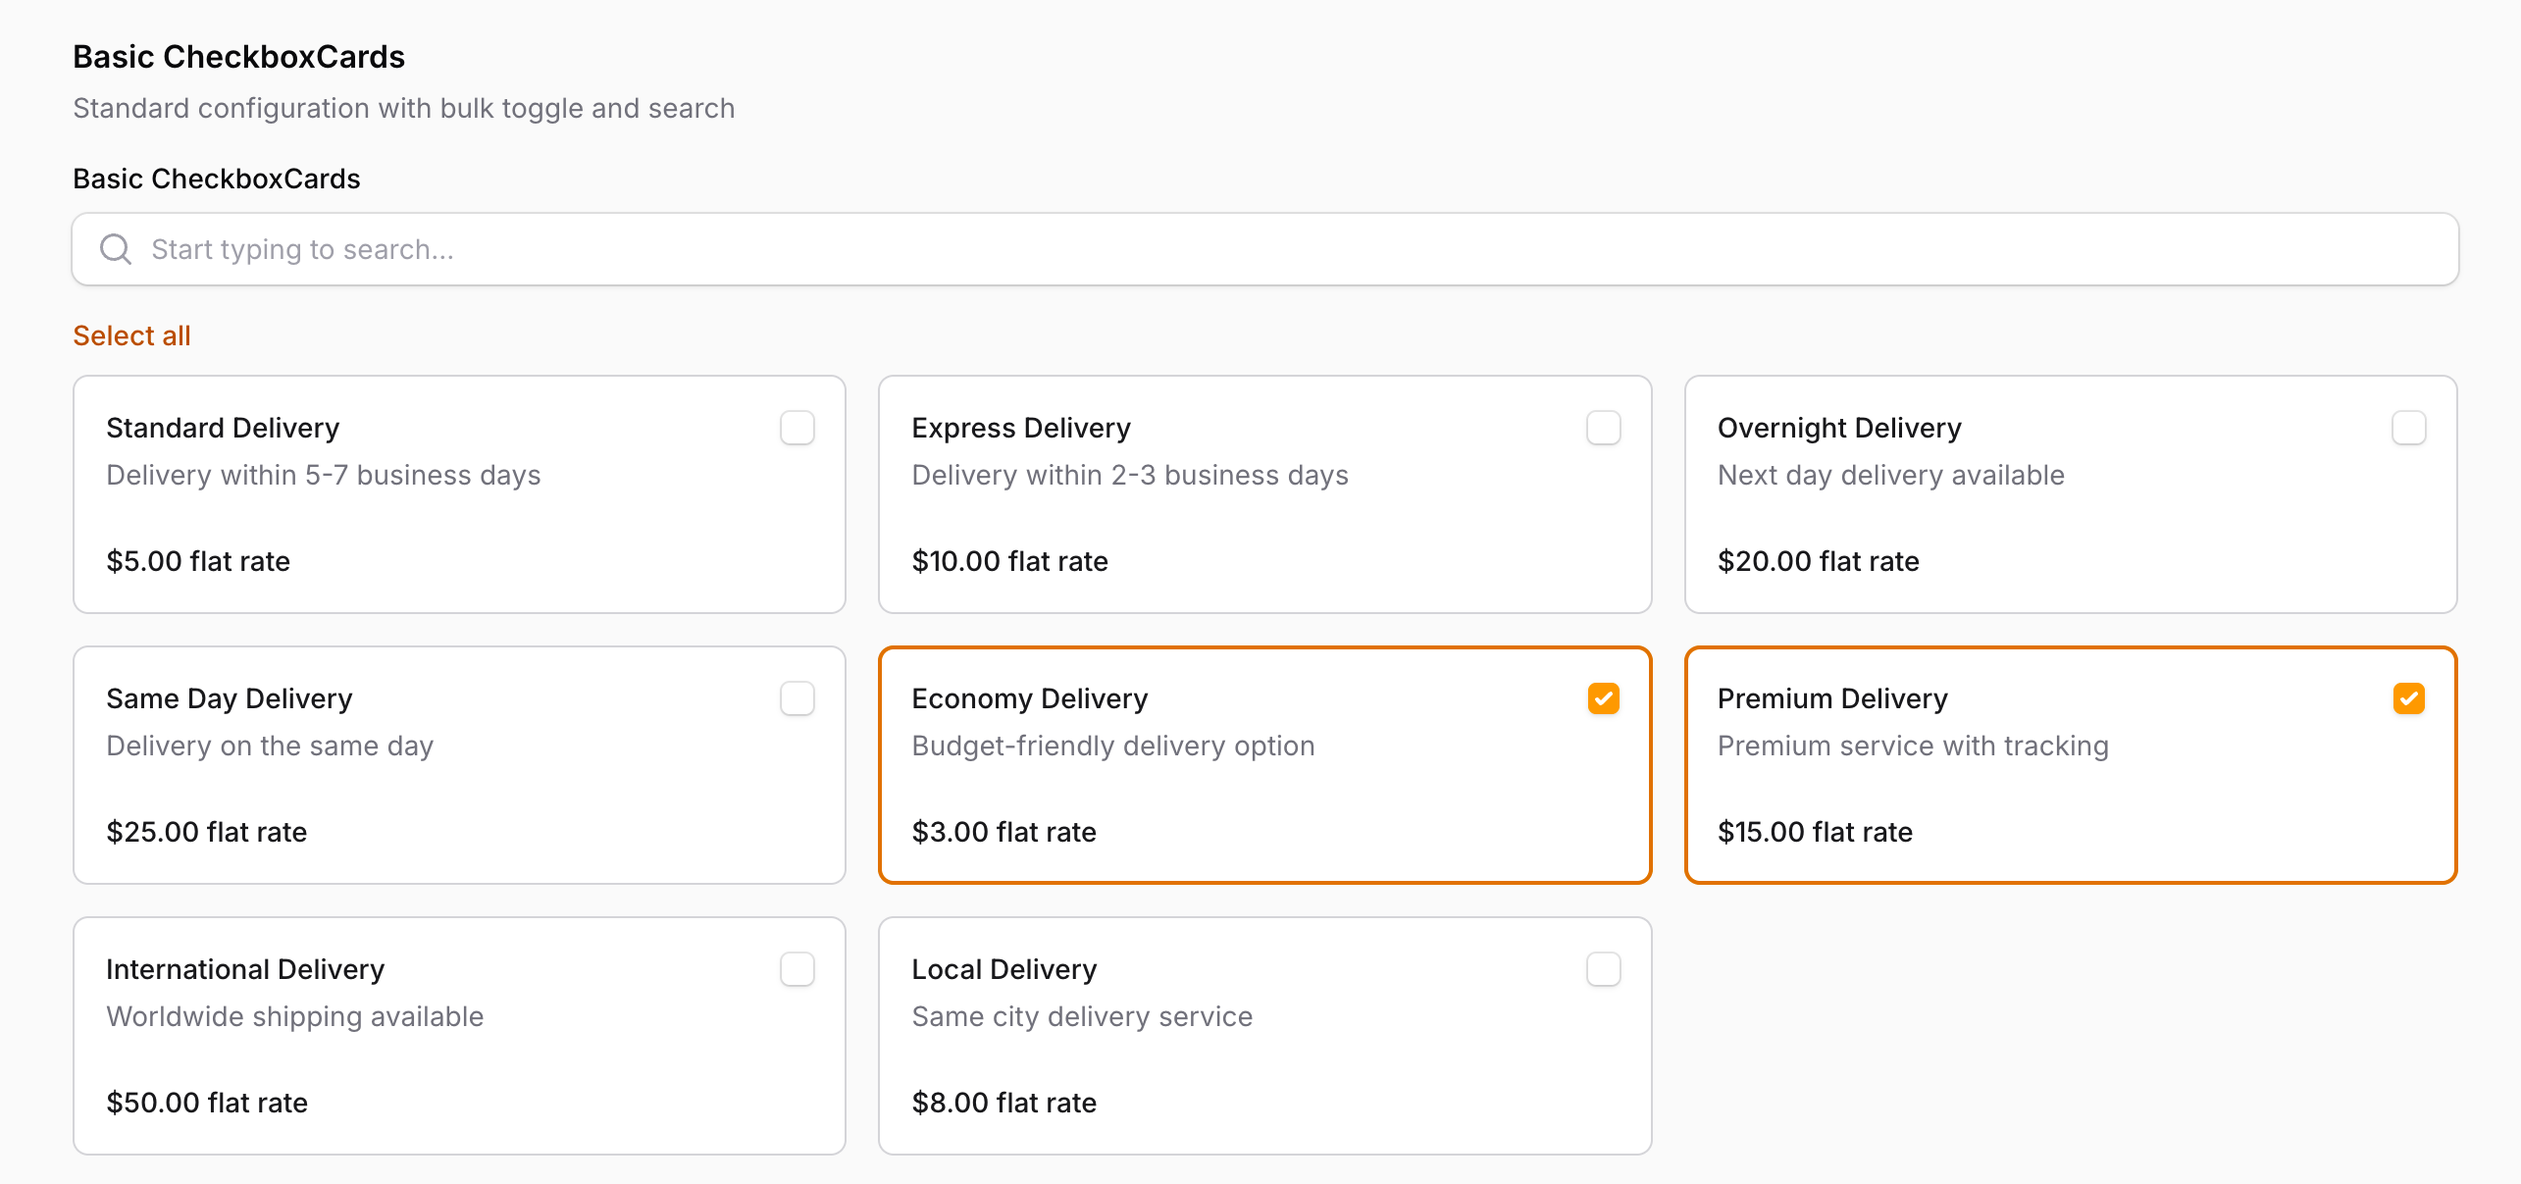
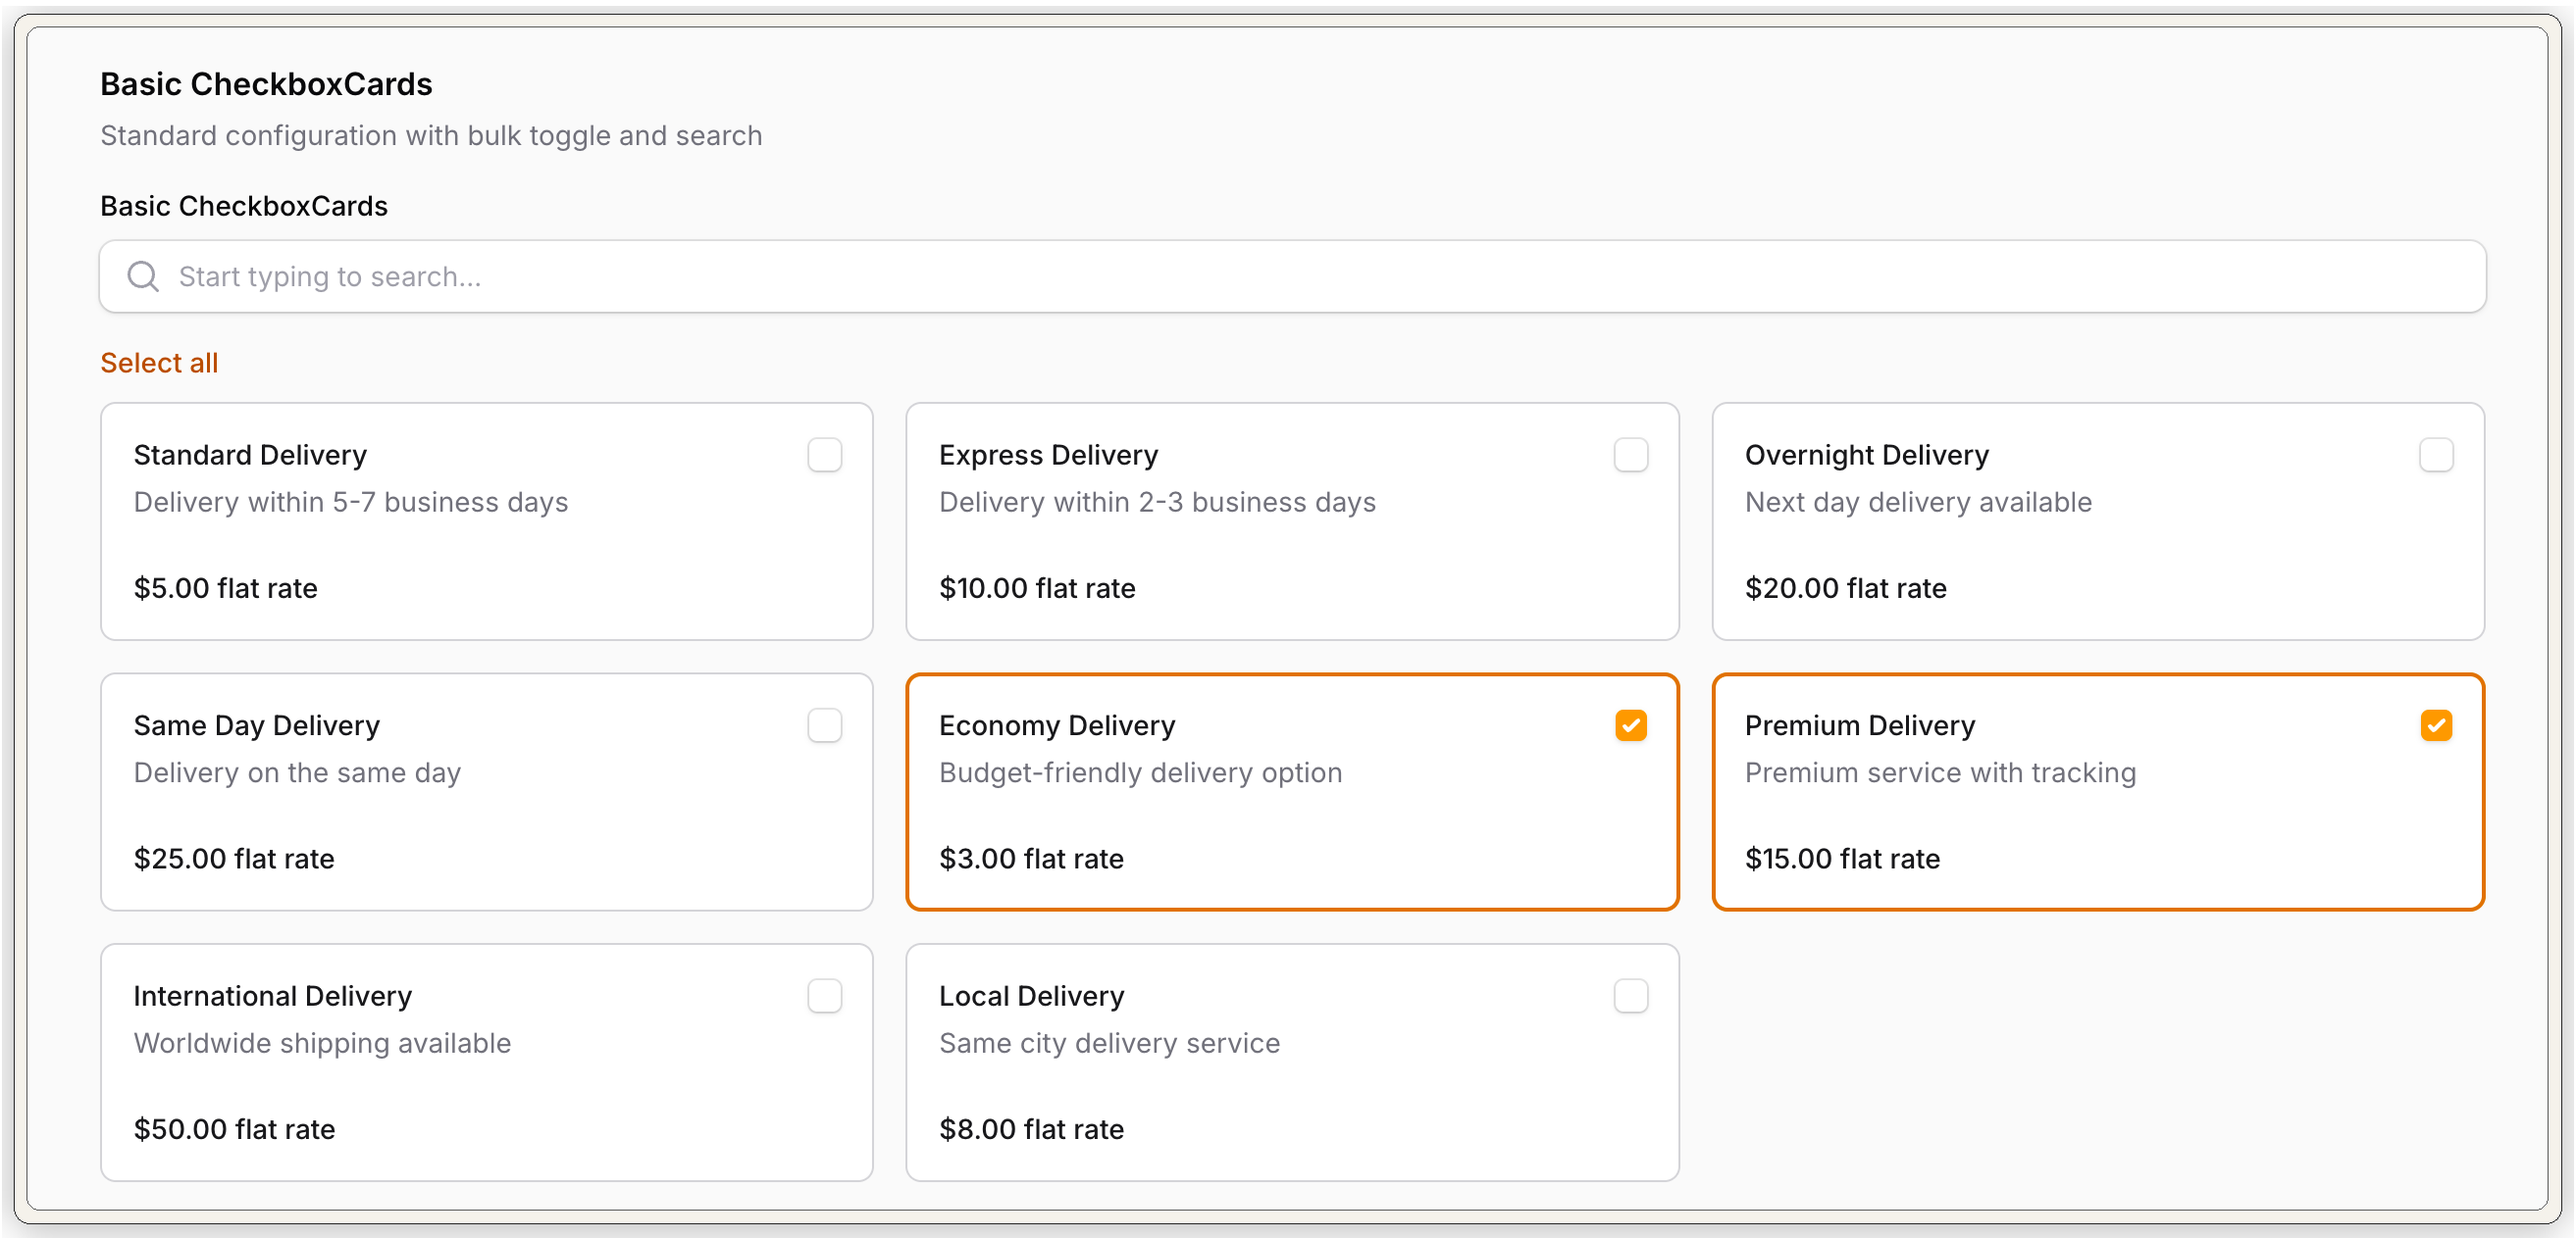
Art: rounded card frame with double border and shadow
Add scripts/frame-art-images.py (Pillow) to post-process README screenshots.
Regenerate art/*.png with inner rounded content, light frame, inner/outer
stroke, and soft shadow. Ignore .venv-img; export-ignore scripts for dist.

diff --git a/scripts/frame-art-images.py b/scripts/frame-art-images.py
@@ -1,0 +1,97 @@
+#!/usr/bin/env python3
+"""Add rounded card frame (double border + soft shadow) to README art PNGs."""
+
+from __future__ import annotations
+
+from pathlib import Path
+
+from PIL import Image, ImageDraw, ImageFilter
+
+# Outer card (light frame + thin dark edge), inner screenshot corners
+OUTER_RADIUS = 16
+INNER_RADIUS = 12
+
+# Warm off-white band, double-line dark accents (reference: terminal card UIs)
+LIGHT = (245, 242, 235, 255)
+OUTER_STROKE = (38, 38, 38, 255)
+INNER_STROKE = (90, 90, 90, 255)
+
+# Padding from outer card edge to screenshot
+PAD = 14
+
+
+def rounded_mask(size: tuple[int, int], radius: int) -> Image.Image:
+    mask = Image.new("L", size, 0)
+    draw = ImageDraw.Draw(mask)
+    draw.rounded_rectangle((0, 0, size[0] - 1, size[1] - 1), radius=radius, fill=255)
+    return mask
+
+
+def round_corners(im: Image.Image, radius: int) -> Image.Image:
+    im = im.convert("RGBA")
+    m = rounded_mask(im.size, radius)
+    out = Image.new("RGBA", im.size, (0, 0, 0, 0))
+    out.paste(im, (0, 0), m)
+    return out
+
+
+def frame_image(im: Image.Image) -> Image.Image:
+    im = round_corners(im, INNER_RADIUS)
+    w, h = im.size
+
+    card_w = w + 2 * PAD
+    card_h = h + 2 * PAD
+
+    shadow_pad = 14
+    canvas_w = card_w + shadow_pad * 2
+    canvas_h = card_h + shadow_pad * 2
+    canvas = Image.new("RGBA", (canvas_w, canvas_h), (0, 0, 0, 0))
+
+    ox, oy = shadow_pad, shadow_pad
+
+    # Soft drop shadow
+    shadow = Image.new("RGBA", (card_w + 24, card_h + 24), (0, 0, 0, 0))
+    sd = ImageDraw.Draw(shadow)
+    sd.rounded_rectangle(
+        (12, 12, card_w + 11, card_h + 11),
+        radius=OUTER_RADIUS + 2,
+        fill=(0, 0, 0, 70),
+    )
+    shadow = shadow.filter(ImageFilter.GaussianBlur(16))
+    canvas.alpha_composite(shadow, (ox - 12, oy - 8))
+
+    # Light card + outer stroke (double effect outer line)
+    card = Image.new("RGBA", (card_w, card_h), (0, 0, 0, 0))
+    cd = ImageDraw.Draw(card)
+    cd.rounded_rectangle((0, 0, card_w - 1, card_h - 1), radius=OUTER_RADIUS, fill=LIGHT)
+    cd.rounded_rectangle((0, 0, card_w - 1, card_h - 1), radius=OUTER_RADIUS, outline=OUTER_STROKE, width=1)
+
+    card.paste(im, (PAD, PAD), im)
+
+    # Inner stroke hugging the screenshot (second line of the double frame)
+    ix0, iy0 = PAD - 1, PAD - 1
+    ix1, iy1 = PAD + w, PAD + h
+    cd.rounded_rectangle(
+        (ix0, iy0, ix1 - 1, iy1 - 1),
+        radius=INNER_RADIUS + 1,
+        outline=INNER_STROKE,
+        width=1,
+    )
+
+    canvas.alpha_composite(card, (ox, oy))
+    return canvas
+
+
+def main() -> None:
+    root = Path(__file__).resolve().parent.parent / "art"
+    for path in sorted(root.glob("*.png")):
+        img = Image.open(path)
+        out = frame_image(img)
+        tmp = path.with_suffix(".png.tmp")
+        out.save(tmp, format="PNG", optimize=True)
+        tmp.replace(path)
+        print(path.name)
+
+
+if __name__ == "__main__":
+    main()
